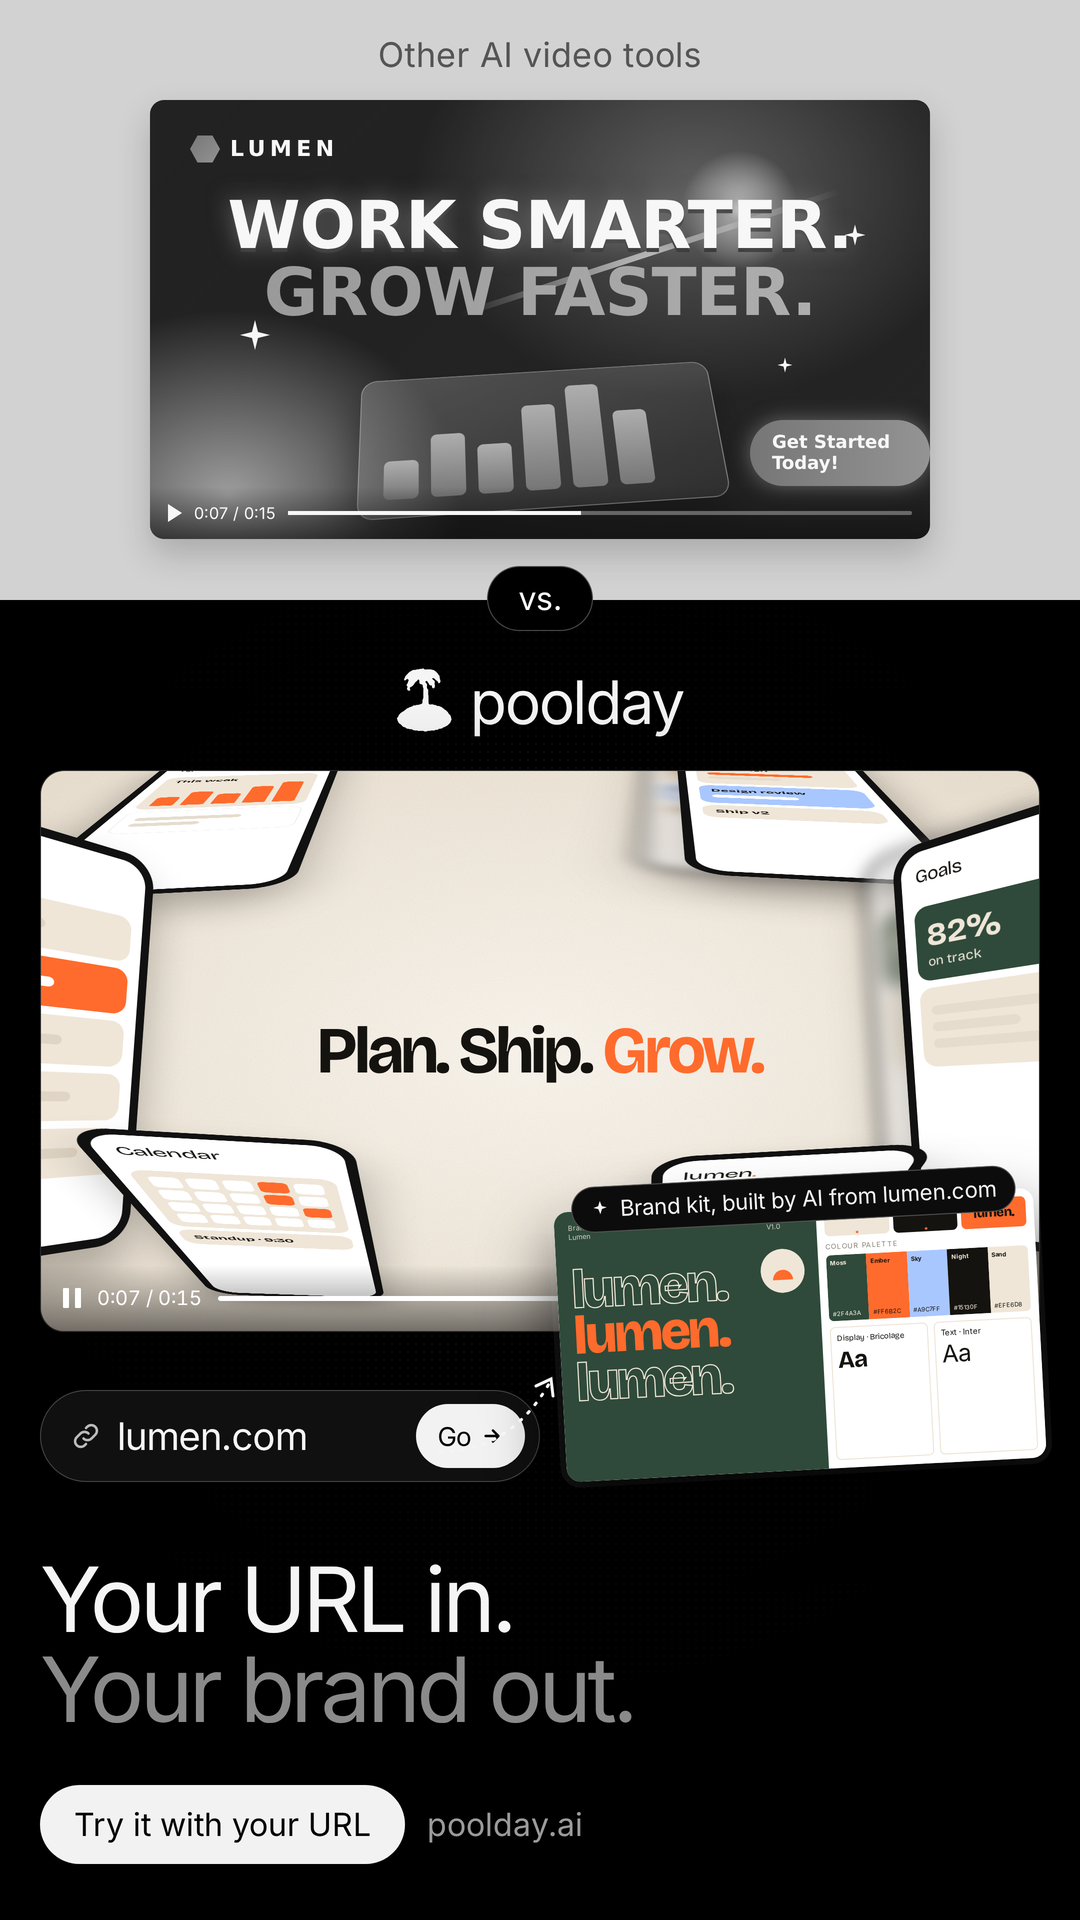
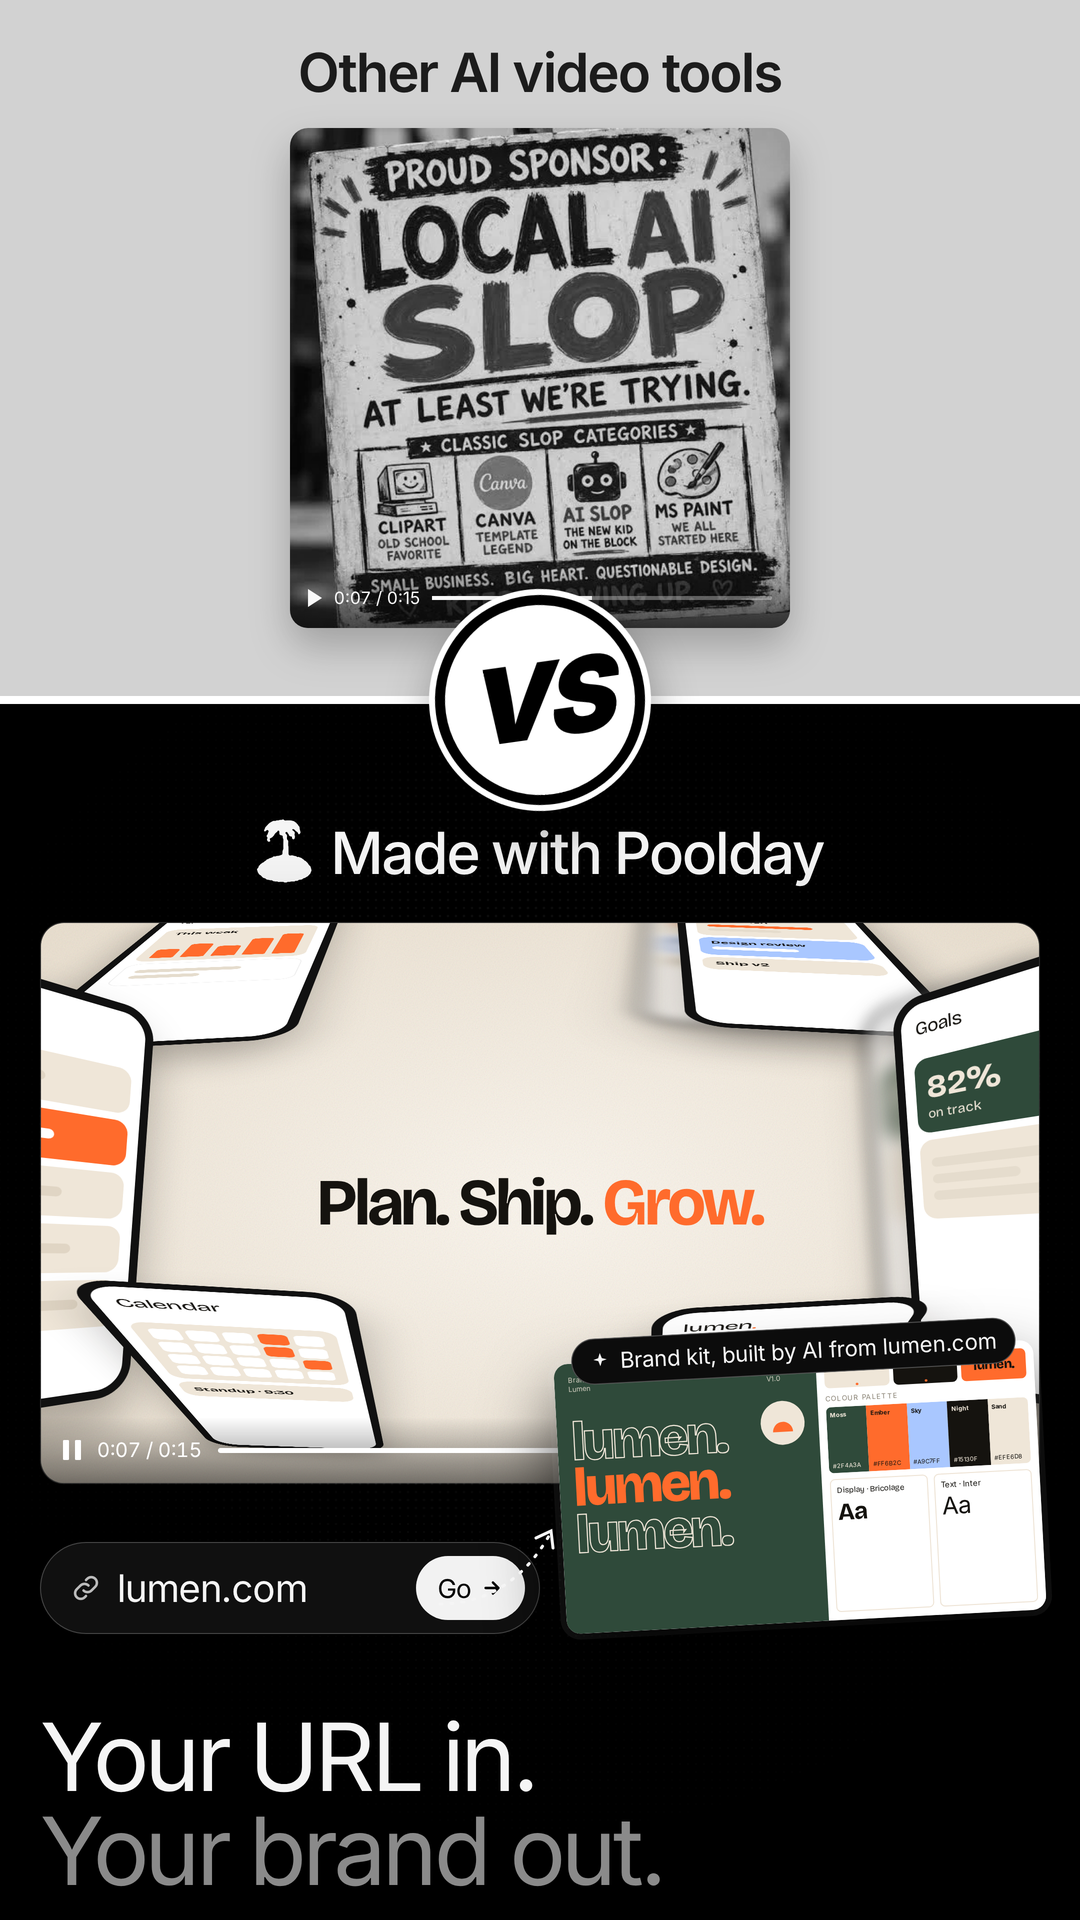
D8 static ad v4 (big VS, LOCAL AI SLOP frame, Made with Poolday); D3: how qualification works and how it's validated
Claude-Session: https://claude.ai/code/session_014hQZTHyaVN7FtPgL5qa4Zv

diff --git a/deliverables/D6-video-review/remake/src/poolday-static-ad.html b/deliverables/D6-video-review/remake/src/poolday-static-ad.html
@@ -6,35 +6,26 @@
 :root{--night:#15130F;--ember:#FF6B2C;--sand:#EFE6D8;--sky:#A9C7FF;--moss:#2F4A3A;--mute:#8a8a8a}
 *{box-sizing:border-box;margin:0;padding:0}
 html,body{width:1080px;height:1920px;overflow:hidden;background:#000;font-family:Inter,sans-serif;color:#F5F5F5;-webkit-font-smoothing:antialiased}
-/* ================= TOP (old, grey): a generic AI motion-design frame ================= */
-#top{position:absolute;left:0;right:0;top:0;height:600px;background:#d2d2d2;overflow:hidden}
-#top .tag{position:absolute;left:0;right:0;top:34px;text-align:center;font-size:34px;letter-spacing:.01em;color:#555}
-.old{position:absolute;left:150px;top:100px;width:780px;height:439px;border-radius:14px;overflow:hidden;filter:grayscale(1) contrast(.9) brightness(1.02);box-shadow:0 16px 34px rgba(0,0,0,.2)}
-.gen{position:absolute;inset:0;background:radial-gradient(60% 80% at 70% 20%,#7b3cff 0,transparent 60%),radial-gradient(50% 70% at 10% 90%,#00c2ff 0,transparent 60%),linear-gradient(135deg,#1a1147,#0a1a3d)}
-.flare{position:absolute;left:520px;top:40px;width:140px;height:140px;border-radius:50%;background:radial-gradient(circle,#fff 0,rgba(255,255,255,.6) 12%,transparent 60%)}
-.flare2{position:absolute;left:300px;top:150px;width:400px;height:6px;background:linear-gradient(90deg,transparent,rgba(255,255,255,.7),transparent);transform:rotate(-18deg)}
-.gl{position:absolute;left:40px;top:34px;display:flex;align-items:center;gap:10px;font-family:"DejaVu Sans",Arial,sans-serif;font-weight:700;font-size:22px;letter-spacing:.2em;color:#fff}
-.gl i{width:30px;height:30px;background:linear-gradient(135deg,#a855f7,#06b6d4);clip-path:polygon(25% 5%,75% 5%,100% 50%,75% 95%,25% 95%,0 50%)}
-.gh{position:absolute;left:0;right:0;top:92px;text-align:center;font-family:"DejaVu Sans",Arial,sans-serif;font-weight:800;font-size:66px;line-height:1.02;letter-spacing:-.01em;color:#fff;text-shadow:0 0 24px rgba(168,85,247,.9),0 4px 0 #3b1d7a}
-.gh span{background:linear-gradient(90deg,#c084fc,#22d3ee);-webkit-background-clip:text;color:transparent;text-shadow:none}
-.gcard{position:absolute;left:210px;top:262px;width:360px;height:150px;border-radius:16px;background:linear-gradient(160deg,rgba(255,255,255,.22),rgba(255,255,255,.05));border:1px solid rgba(255,255,255,.35);transform:perspective(700px) rotateX(24deg) rotateZ(-4deg);box-shadow:0 20px 40px rgba(0,0,0,.4)}
-.gcard i{position:absolute;bottom:18px;width:34px;border-radius:6px;background:linear-gradient(#22d3ee,#a855f7)}
-.spk{position:absolute;width:30px;height:30px;background:#fff;clip-path:polygon(50% 0,60% 40%,100% 50%,60% 60%,50% 100%,40% 60%,0 50%,40% 40%)}
-.gbtn{position:absolute;left:600px;top:320px;padding:12px 22px;border-radius:999px;background:linear-gradient(90deg,#a855f7,#06b6d4);font-family:"DejaVu Sans",Arial;font-weight:700;font-size:18px;color:#fff;box-shadow:0 0 20px rgba(168,85,247,.8)}
-.octrl{position:absolute;left:0;right:0;bottom:0;height:52px;background:linear-gradient(transparent,rgba(0,0,0,.6));display:flex;align-items:center;gap:12px;padding:0 18px;font-size:16px;color:#fff}
+/* ================= TOP (old, grey): a video made with another AI tool ================= */
+#top{position:absolute;left:0;right:0;top:0;height:700px;background:#d2d2d2;overflow:hidden}
+#top .tag{position:absolute;left:0;right:0;top:40px;text-align:center;font-size:54px;font-weight:600;letter-spacing:-.03em;color:#1c1c1c}
+.old{position:absolute;left:290px;top:128px;width:500px;height:500px;border-radius:18px;overflow:hidden;filter:grayscale(1) contrast(.95);box-shadow:0 18px 40px rgba(0,0,0,.25)}
+.old img{width:100%;height:100%;object-fit:cover;display:block}
+.octrl{position:absolute;left:0;right:0;bottom:0;height:60px;background:linear-gradient(transparent,rgba(0,0,0,.65));display:flex;align-items:center;gap:12px;padding:0 18px;font-size:17px;color:#fff}
 .octrl .pb{flex:1;height:4px;border-radius:2px;background:rgba(255,255,255,.35);position:relative}
 .octrl .pb i{position:absolute;left:0;top:0;bottom:0;width:47%;background:#fff}
 .tri{width:0;height:0;border-left:14px solid #fff;border-top:9px solid transparent;border-bottom:9px solid transparent}
 /* ================= VS ================= */
-#vs{position:absolute;left:0;right:0;top:566px;display:flex;justify-content:center;z-index:6}
-#vs span{background:#000;color:#fff;border:1.5px solid rgba(255,255,255,.3);border-radius:999px;padding:12px 30px;font-size:32px;letter-spacing:-.01em}
+#vs{position:absolute;left:50%;top:700px;width:210px;height:210px;margin:-105px 0 0 -105px;border-radius:50%;background:#fff;border:10px solid #000;box-shadow:0 0 0 6px #fff,0 20px 50px rgba(0,0,0,.45);display:grid;place-items:center;z-index:9;transform:rotate(-8deg)}
+#vs span{font-size:104px;font-weight:900;font-style:italic;letter-spacing:-.06em;color:#000;margin-left:-8px}
+.seam{position:absolute;left:0;right:0;top:696px;height:8px;background:#fff;z-index:8}
 /* ================= BOTTOM (new, colour): made from your brand ================= */
-#bot{position:absolute;left:0;right:0;top:600px;bottom:0;background:#000;overflow:hidden}
+#bot{position:absolute;left:0;right:0;top:700px;bottom:0;background:#000;overflow:hidden}
 #ht{position:absolute;inset:0;opacity:.7}
-.brand{position:absolute;left:0;right:0;top:66px;display:flex;justify-content:center;align-items:center;gap:18px;font-size:60px;letter-spacing:-.035em}
+.brand{position:absolute;left:0;right:0;top:118px;display:flex;justify-content:center;align-items:center;gap:18px;font-size:58px;font-weight:500;letter-spacing:-.035em}
 .brand img{height:64px;margin-top:-4px}
-.glow{position:absolute;left:140px;top:250px;width:800px;height:460px;border-radius:50%;background:radial-gradient(closest-side,rgba(255,107,44,.34),transparent);filter:blur(30px)}
-.player{position:absolute;left:40px;top:170px;width:1000px;height:562px;border-radius:24px;overflow:hidden;border:1px solid rgba(255,255,255,.16);box-shadow:0 40px 100px rgba(0,0,0,.7)}
+.glow{position:absolute;left:140px;top:300px;width:800px;height:460px;border-radius:50%;background:radial-gradient(closest-side,rgba(255,107,44,.34),transparent);filter:blur(30px)}
+.player{position:absolute;left:40px;top:222px;width:1000px;height:562px;border-radius:24px;overflow:hidden;border:1px solid rgba(255,255,255,.16);box-shadow:0 40px 100px rgba(0,0,0,.7)}
 .frame{position:absolute;inset:0;background:radial-gradient(70% 70% at 50% 50%,#FBF6EE,#EAE0D0);perspective:700px;overflow:hidden}
 .phone{position:absolute;width:210px;height:430px;border-radius:34px;background:#111;padding:9px;box-shadow:0 30px 50px rgba(21,19,15,.28)}
 .scr{width:100%;height:100%;border-radius:26px;overflow:hidden;background:#fff;position:relative;font-family:Bricolage,sans-serif}
@@ -54,12 +45,12 @@ html,body{width:1080px;height:1920px;overflow:hidden;background:#000;font-family
 .ctrl .pb b{position:absolute;left:47%;top:50%;width:15px;height:15px;margin:-7.5px;border-radius:50%;background:#fff}
 .pause{display:flex;gap:6px}.pause i{width:6px;height:20px;background:#fff;border-radius:1px}
 /* URL → AI brand kit, superposed on the video */
-.url{position:absolute;left:40px;top:790px;width:500px;height:92px;border-radius:999px;background:#101010;border:1.5px solid rgba(255,255,255,.22);display:flex;align-items:center;gap:16px;padding:0 14px 0 30px;font-size:38px;letter-spacing:-.02em;z-index:7;box-shadow:0 20px 40px rgba(0,0,0,.5)}
+.url{position:absolute;left:40px;top:842px;width:500px;height:92px;border-radius:999px;background:#101010;border:1.5px solid rgba(255,255,255,.22);display:flex;align-items:center;gap:16px;padding:0 14px 0 30px;font-size:38px;letter-spacing:-.02em;z-index:7;box-shadow:0 20px 40px rgba(0,0,0,.5)}
 .url svg{width:30px;height:30px;flex:none}
 .url .go{margin-left:auto;height:64px;padding:0 22px;border-radius:999px;background:#F2F2F2;color:#050505;display:flex;align-items:center;gap:10px;font-size:26px}
 .url .go svg{width:22px;height:22px}
-.flow{position:absolute;left:432px;top:752px;width:140px;height:110px;z-index:8}
-.kitwrap{position:absolute;left:560px;top:600px;width:480px;z-index:7;transform:rotate(-3deg);transform-origin:50% 50%}
+.flow{position:absolute;left:432px;top:804px;width:140px;height:110px;z-index:8}
+.kitwrap{position:absolute;left:560px;top:652px;width:480px;z-index:7;transform:rotate(-3deg);transform-origin:50% 50%}
 .aitag{position:absolute;left:18px;top:-24px;z-index:2;display:flex;align-items:center;gap:10px;background:#0c0c0c;border:1px solid rgba(255,255,255,.28);border-radius:999px;padding:9px 18px;font-size:22px;white-space:nowrap}
 .aitag svg{width:20px;height:20px}
 .kit{width:480px;height:270px;border-radius:14px;overflow:hidden;background:#fff;box-shadow:0 30px 70px rgba(0,0,0,.7),0 0 0 6px rgba(255,255,255,.08);font-family:Bricolage,sans-serif;color:var(--night);display:grid;grid-template-columns:1.2fr 1fr}
@@ -80,30 +71,26 @@ html,body{width:1080px;height:1920px;overflow:hidden;background:#000;font-family
 .logos{display:grid;grid-template-columns:1fr 1fr 1fr;gap:4px}
 .logos div{height:30px;border-radius:5px;display:grid;place-items:center;font-size:13px;font-weight:800;letter-spacing:-.05em}
 /* copy */
-.hl{position:absolute;left:40px;right:40px;top:955px;font-size:90px;line-height:1;letter-spacing:-.045em}
+.hl{position:absolute;left:40px;right:40px;top:1010px;font-size:94px;line-height:1;letter-spacing:-.045em}
 .hl span{color:#8a8a8a}
 .cta{position:absolute;left:40px;bottom:56px;display:flex;align-items:center;gap:22px}
 .cta .pill{background:#F2F2F2;color:#050505;border-radius:999px;padding:20px 34px;font-size:32px}
 .cta .dom{font-size:32px;color:#9a9a9a}
 </style></head>
 <body>
-<!-- OLD: what generic AI video tools give you -->
+<!-- OLD: a video made with another AI tool -->
 <div id="top">
   <div class="tag">Other AI video tools</div>
-  <div class="old"><div class="gen"></div><div class="flare"></div><div class="flare2"></div>
-    <div class="gl"><i></i>LUMEN</div>
-    <div class="gh">WORK SMARTER.<br><span>GROW FASTER.</span></div>
-    <div class="gcard"><i style="left:24px;height:40px"></i><i style="left:70px;height:66px"></i><i style="left:116px;height:52px"></i><i style="left:162px;height:92px"></i><i style="left:208px;height:112px"></i><i style="left:254px;height:80px"></i></div>
-    <div class="gbtn">Get Started Today!</div>
-    <div class="spk" style="left:90px;top:220px"></div><div class="spk" style="left:690px;top:120px;transform:scale(.7)"></div><div class="spk" style="left:620px;top:250px;transform:scale(.5)"></div>
+  <div class="old"><img src="_assets/ad/slop-sign.webp" alt="">
     <div class="octrl"><span class="tri"></span><span>0:07 / 0:15</span><span class="pb"><i></i></span></div>
   </div>
 </div>
-<div id="vs"><span>vs.</span></div>
+<div class="seam"></div>
+<div id="vs"><span>VS</span></div>
 
 <!-- NEW: Poolday, built from the brand kit it made from one URL -->
-<div id="bot"><canvas id="ht" width="1080" height="1320"></canvas>
-  <div class="brand"><img src="_assets/poolday/mark.svg">poolday</div>
+<div id="bot"><canvas id="ht" width="1080" height="1220"></canvas>
+  <div class="brand"><img src="_assets/poolday/mark.svg">Made with Poolday</div>
   <div class="glow"></div>
   <div class="player"><div class="frame" id="frame"><div class="center">Plan. Ship. <em>Grow.</em></div><div class="grain"></div></div>
     <div class="ctrl"><span class="pause"><i></i><i></i></span><span>0:07 / 0:15</span><span class="pb"><i></i><b></b></span></div></div>
@@ -133,7 +120,6 @@ html,body{width:1080px;height:1920px;overflow:hidden;background:#000;font-family
   </div>
 
   <div class="hl">Your URL in.<br><span>Your brand out.</span></div>
-  <div class="cta"><span class="pill">Try it with your URL</span><span class="dom">poolday.ai</span></div>
 </div>
 <script>
 const screens = [
@@ -153,7 +139,7 @@ P.forEach(([x, y, rx, ry, rz], i) => {
   if (i === 1 || i === 3) { const s = d.cloneNode(true); s.classList.add("streak"); s.style.transform += " translateX(-40px)"; fr.insertBefore(s, d); }
 });
 const g = document.getElementById("ht").getContext("2d");
-for (let y = 0; y < 1320; y += 8) for (let x = 0; x < 1080; x += 8) {
+for (let y = 0; y < 1220; y += 8) for (let x = 0; x < 1080; x += 8) {
   const r = 1 - Math.min(1, Math.hypot((x - 540) / 640, (y - 520) / 620)); if (r <= 0) continue;
   const v = Math.round(10 + 30 * r); g.fillStyle = `rgb(${v},${v},${v})`; g.beginPath(); g.arc(x, y, .6 + 1.4 * r, 0, 6.283); g.fill();
 }

diff --git a/deliverables/D3-loop/README.md b/deliverables/D3-loop/README.md
@@ -14,3 +14,33 @@
 **Where "Carolyn" comes from:** the lead dataset (`data/series-b-bay-area.csv`). For Wispr Flow it lists "Carolyn [last masked], VP of Product Marketing" as contact 1. The dataset has no email addresses, so "To" is left for the sender to fill in.
 
 **Next (with API access or an Output webhook):** Poolday calls back on its own, and the paste step disappears. The loop already handles signed callbacks (`POST /api/poolday/callback`), revisions, and agent questions.
+
+## How the leads are qualified, and how we know it's any good
+**Two stages.**
+1. **A rule-based pre-score (code, 0–100)**: freshness of the round 40 + named buyer 25 + B2B 15 + video fit 20. Under 45 = cut without further work (10 of 37).
+2. **A 5-criterion rubric, 0–20 each** (B2B, freshness, buyer, visual product, video need), answered per lead with a 2–3 sentence justification that cites only dataset facts.
+   - The code enforces freshness from the date bands, total = sum, **no named buyer = knocked out**, and keep ≥ 70.
+   - Without an API key, I answered the rubric in Claude Code (`loop/answers/`).
+
+**What "qualified" means:** worth making a free video for, because a fresh round (budget, launch, announcement), a named marketing/creative buyer and a visual product make a personalized video most likely to land.
+
+**Evidence it's coherent (26 Sep, 27 scored leads):**
+- Rank correlation 0.83 with the deterministic pre-score and 0.71 with the offline mock scorer. 4 of 5 qualified leads are the same as the mock's.
+- It agrees with the manual D2 picks made before the loop existed: Flam #1 and Wispr Flow #2 both qualify; backup Blacksmith qualifies; backup Convex is a close call (67).
+- The disagreements are explained:
+  - Convex drops because the contact is a marketing manager and the product is a backend.
+  - Delightree comes in: fresh round and a Head of Marketing.
+  - Flex scores +15 over the mock because it has a Creative Director.
+  - Consensus scores −12: mixed audience, HQ unverified.
+
+**Limits:**
+- One rater.
+- The dataset only: no live check of sites, LinkedIn or HQ (network blocked here; last names masked).
+- 5 coarse criteria and a round-number threshold.
+
+**How we'll actually know: outcomes.**
+- Send the 5 qualified leads plus 3–5 close calls (65–69) as a control.
+- Track video clicks, replies and booked demos by score band. After 20–30 sends, re-weight the criteria and move the threshold to what books.
+- Cheap extra check: the CEO scores 10 leads blind, and we compare (agreement between raters).
+- With an API key, the same rubric can run automatically as a second opinion (`LLM_MODE=api`).
+

diff --git a/deliverables/D8-instagram/README.md b/deliverables/D8-instagram/README.md
@@ -1,14 +1,14 @@
 # D8 (bonus): Poolday's Instagram
 
 ## 0. The static story ad (`poolday-static-ad.png`, 1080×1920; `@2x` for print)
-Old vs new in one 9:16 image: **grey = the others, colour = Poolday.**
-- **Top (≈30%, greyed): "Other AI video tools".** A paused frame of the generic motion design every AI tool outputs: purple-cyan gradient, lens flare, "WORK SMARTER. GROW FASTER.", a glassy bar chart, a gradient "Get Started Today!" button, sparkles, and a stock hexagon "LUMEN" logo, because the brand was never used.
-- **"vs."**
-- **Bottom (≈70%, colour): the Poolday logo.**
-  - A paused frame of a professional motion-design video for the demo brand Lumen: the Apple-style phone tunnel with Lumen app screens, "Plan. Ship. **Grow.**", grain and motion trails.
-  - **Superposed, smaller:** the 16:9 Lumen brand guide, tagged ✦ **"Brand kit, built by AI from lumen.com"**, with a URL bar "lumen.com → Go" and an arrow into it, so it's obvious the kit came from just entering the URL.
-- **Copy:** "Your URL in. Your brand out." CTA: "Try it with your URL" · poolday.ai. There's no label pair that reads as one sentence (v2 read "AI Slop / Made with Poolday").
-- The Poolday side stays on its brand (black, Inter, scan-dot halftone, cream pill). The colour comes from the customer's video. Lumen is fictional.
+Old vs new in one 9:16 image: **grey = the others, colour = Poolday**, with a big **VS** medallion on the seam.
+- **Top (≈36%, grey): "Other AI video tools"** (large, dark, readable). A paused square video frame of the "LOCAL AI SLOP · At least we're trying" sign, the meme the user picked to stand for what other tools output.
+- **VS:** a 210px white medallion, black ring, tilted, sitting on a white seam.
+- **Bottom (colour): the Poolday mark + "Made with Poolday".**
+  - A paused frame of a professional motion-design video for the demo brand Lumen (the Apple-style phone tunnel).
+  - Superposed, smaller: the 16:9 Lumen brand guide, tagged ✦ "Brand kit, built by AI from lumen.com", with the URL bar "lumen.com → Go" and an arrow into it.
+- **Copy:** "Your URL in. Your brand out." (no CTA line; Instagram's button does that job).
+- **Rights:** the "LOCAL AI SLOP" sign is a third-party image whose source is unknown. Fine for this pitch; replace it with our own slop frame, or license it, before running the ad. Lumen is fictional.
 
 ## 1. Animated version (`poolday-ad.mp4`, 9:16, 14.4s, with sound)
 **The original** (`original-ig-ad-screenshot.png`): a static card, "No AI slop. Just your videos, edited well. Poolday learns your brand and edits every video to it." The idea is right, but:

diff --git a/deliverables/DELIVERABLE.md b/deliverables/DELIVERABLE.md
@@ -207,7 +207,7 @@ I'd post every day on X and LinkedIn about Poolday. It genuinely excites me. The
 - **Tracked weekly:** posts, views, URL comments, demos booked.
 
 ## D8 (bonus): Poolday's Instagram
-- **The static story ad, remade** (`D8-instagram/poolday-static-ad.png`): old vs new in one 9:16 image. Top, grey: "Other AI video tools", a generic gradient-and-sparkles motion frame with the wrong logo. Bottom, colour: Poolday, a pro motion frame for the demo brand Lumen, with its brand kit superposed and tagged "built by AI from lumen.com" (URL bar → kit). Copy: "Your URL in. Your brand out." An animated version also exists (`poolday-ad.mp4`).
+- **The static story ad, remade** (`D8-instagram/poolday-static-ad.png`): old vs new in one 9:16 image with a big **VS**. Top, grey: "Other AI video tools", a paused video of the "LOCAL AI SLOP" sign. Bottom, colour: "Made with Poolday", a pro motion frame for the demo brand Lumen, with its brand kit superposed and tagged "built by AI from lumen.com". Copy: "Your URL in. Your brand out." (Replace the third-party slop image before paid use.) An animated version also exists (`poolday-ad.mp4`).
 - **Why:**
   - The current ad is a static text card, set in monospace + cyan, which is off Poolday's own brand.
   - The remake opens on an "AI SLOP" stamp in the first second, flips to the same ad done well, shows the brand kit being learned, then a wall of 12 on-brand formats, and ends on Poolday's real end card (slot-machine keyword roll, iris rule).
